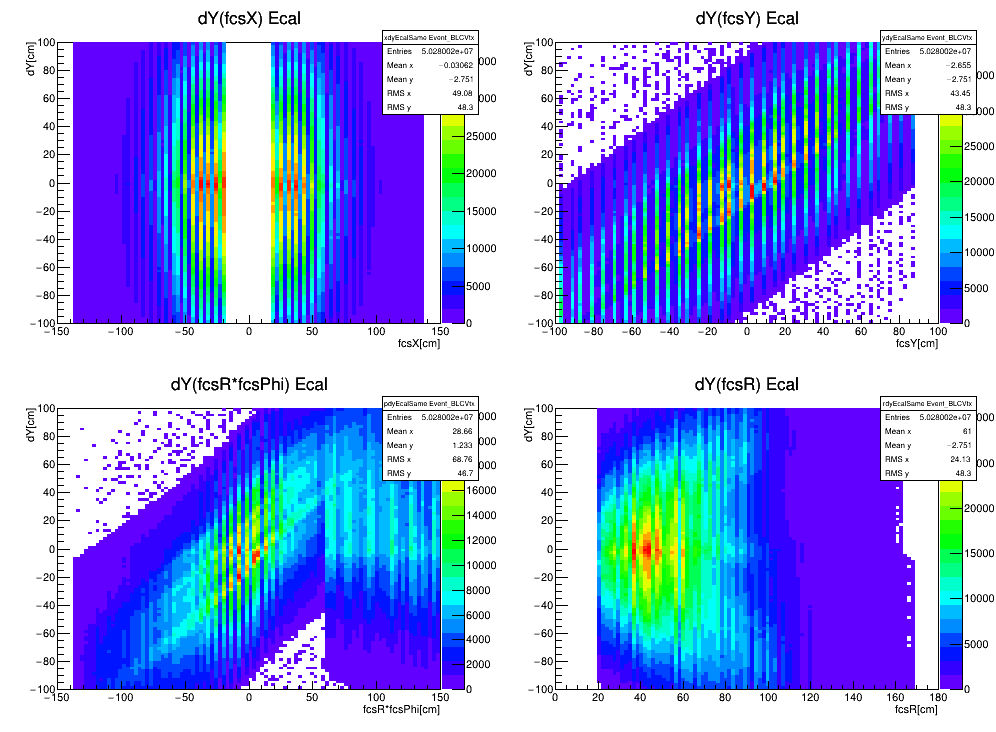
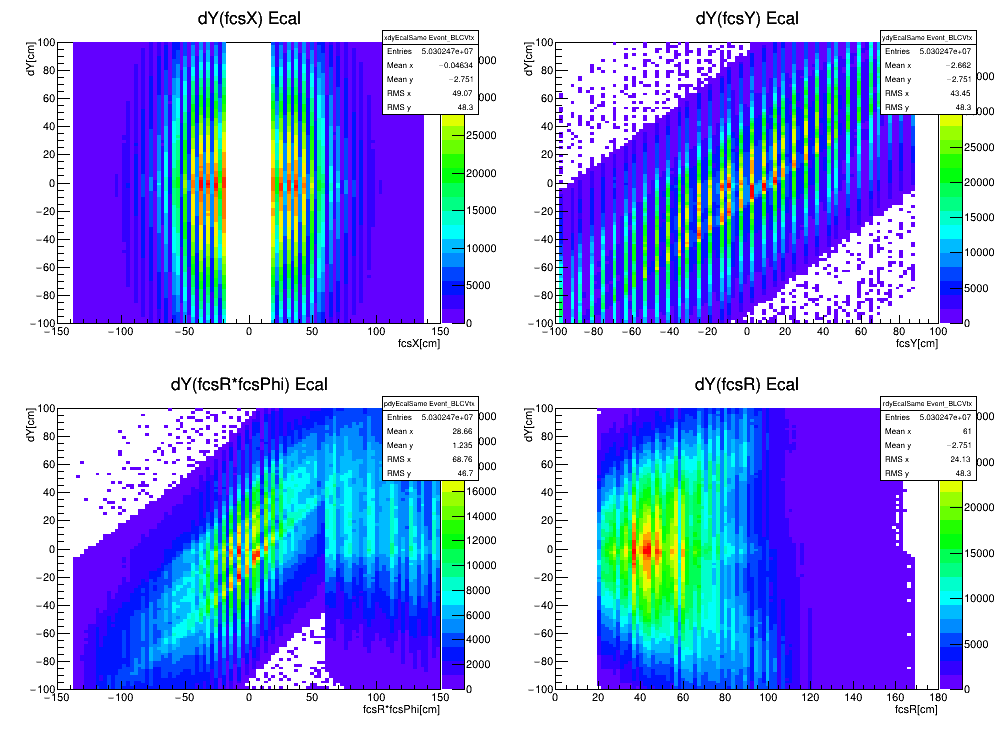
fwd_stream pages now show the calibrated campaign
Plots and numbers regenerated from pico_fwdstream_curcal_20261004, which
has per-run FTT time anchors for 10 of the 11 runs. The numbers move by
under 2%, as the off/on comparison showed, but the pages should show the
best available configuration.

Also tested the shower-max depth as the source of the radial term, and it
is not: a wrong z gives dr strictly proportional to r, the same in both
datasets. Measured per r slice, fwd_stream is flat to r=80 cm then jumps
(-0.8 -0.0 -0.9 -1.7 +2.0 +9.0) while ZF22 steps early then plateaus
(1.7 3.6 4.1 3.8 4.6 6.4). The implied dz would be +32.7 cm for ZF22 and
+9.8 cm for fwd_stream -- mutually inconsistent and far too large. Real
radial structure, concentrated at r>80 cm in fwd_stream, but not a depth
error.

diff --git a/FstFttFlipTest/trackmatch_fwdstream.html b/FstFttFlipTest/trackmatch_fwdstream.html
@@ -12,7 +12,7 @@
 
 <p>Same panels, ranges and 4&nbsp;cm binning as the
 <a href="https://www.star.bnl.gov/protected/spin/akio/fcs/trackmatch/20260706/">2026-07-06
-page</a>. GEOFIX 1,0,0, real magnetic field, FTT hits on the track. BLCVtx is used because most of these events have no TPC vertex, so Primary is unavailable.<br>
+page</a>. GEOFIX 1,0,0, real magnetic field, FTT hits on the track, per-run FTT time anchors for 10 of the 11 runs. BLCVtx is used because most of these events have no TPC vertex, so Primary is unavailable.<br>
 Back to <a href="trackmatch.html">the side-by-side summary</a>.</p>
 
   <li><table border=1>
@@ -57,10 +57,10 @@ Back to <a href="trackmatch.html">the side-by-side summary</a>.</p>
 and signal-to-background inside |d|&lt;15&nbsp;cm, as the two halves:</p>
 <table border=1 cellpadding=4>
 <tr bgcolor="#ccccee"><th>coordinate</th><th>RMS [cm]</th><th>S/B</th></tr>
-<tr><td>dX</td><td align="right">11.55 / 12.07</td><td align="right">0.078 / 0.079</td></tr>
-<tr><td>dY</td><td align="right">9.74 / 8.14</td><td align="right">0.095 / 0.092</td></tr>
-<tr bgcolor="#eeffee"><td>fcsR*dPhi</td><td align="right">7.11 / 6.94</td><td align="right">0.091 / 0.093</td></tr>
-<tr><td>dR</td><td align="right">14.03 / 14.41</td><td align="right">0.095 / 0.232</td></tr>
+<tr><td>dX</td><td align="right">11.46 / 11.92</td><td align="right">0.077 / 0.078</td></tr>
+<tr><td>dY</td><td align="right">9.76 / 8.16</td><td align="right">0.095 / 0.092</td></tr>
+<tr bgcolor="#eeffee"><td>fcsR*dPhi</td><td align="right">7.14 / 6.80</td><td align="right">0.091 / 0.093</td></tr>
+<tr><td>dR</td><td align="right">13.94 / 14.38</td><td align="right">0.094 / 0.229</td></tr>
 </table>
 
 <p>The matched fraction is small by construction: forward tracks are mostly charged hadrons, which ECAL sees only as a MIP for about half of them and as partial energy loss for the rest, while ECAL itself is dominated by photons from pi0 that leave no track. <b>fcsR*dPhi is much narrower than dR</b>, so the mismatch is radial rather than azimuthal &mdash; which is what a wrong z, i.e. the assumed shower-max depth, would produce. <b>HCAL is not quoted</b>: its S/B is 0.03&ndash;0.08 and after subtraction the content inside |d|&lt;30&nbsp;cm cancels, so those widths are artefacts. S/B here is about five times worse than zero field: roughly 90% of the raw histogram is combinatorial.</p>

diff --git a/FstFttFlipTest/trackmatch.html b/FstFttFlipTest/trackmatch.html
@@ -30,7 +30,7 @@ step reconciliation against 2026-07-06 is in
         anchors</td></tr>
 <tr><td><a href="trackmatch_fwdstream.html"><b>Forward stream</b></a> &mdash; Run&nbsp;22 day&nbsp;081, field on, high luminosity</td>
     <td>BLCVtx (no TPC vertex for most events)</td>
-    <td>GEOFIX 1,0,0, real magnetic field, FTT hits on the track</td></tr>
+    <td>GEOFIX 1,0,0, real magnetic field, FTT hits on the track, per-run FTT time anchors</td></tr>
 </table>
 
 <H2>Matching: Same, Mixed and Same&minus;Mixed</H2>
@@ -52,13 +52,13 @@ step reconciliation against 2026-07-06 is in
     <th colspan="2">ZF 22, Primary</th><th colspan="2">forward stream, BLCVtx</th></tr>
 <tr bgcolor="#ccccee"><th>RMS [cm]</th><th>S/B</th><th>RMS [cm]</th><th>S/B</th></tr>
 <tr><td>dX</td><td align="right">9.08 / 9.56</td><td align="right">0.41 / 0.45</td>
-    <td align="right">11.55 / 12.07</td><td align="right">0.078 / 0.079</td></tr>
+    <td align="right">11.46 / 11.92</td><td align="right">0.077 / 0.078</td></tr>
 <tr><td>dY</td><td align="right">8.80 / 8.39</td><td align="right">0.51 / 0.50</td>
-    <td align="right">9.74 / 8.14</td><td align="right">0.095 / 0.092</td></tr>
+    <td align="right">9.76 / 8.16</td><td align="right">0.095 / 0.092</td></tr>
 <tr bgcolor="#eeffee"><td><b>fcsR*dPhi</b></td><td align="right"><b>7.73 / 7.72</b></td><td align="right">0.47 / 0.51</td>
-    <td align="right"><b>7.11 / 6.94</b></td><td align="right">0.091 / 0.093</td></tr>
+    <td align="right"><b>7.14 / 6.80</b></td><td align="right">0.091 / 0.093</td></tr>
 <tr><td>dR</td><td align="right">10.50 / 11.22</td><td align="right">0.39 / 1.11</td>
-    <td align="right">14.03 / 14.41</td><td align="right">0.095 / 0.232</td></tr>
+    <td align="right">13.94 / 14.38</td><td align="right">0.094 / 0.229</td></tr>
 </table>
 
 <p>Mixed event normalised to same over |d|&nbsp;=&nbsp;80&ndash;160&nbsp;cm and subtracted;
